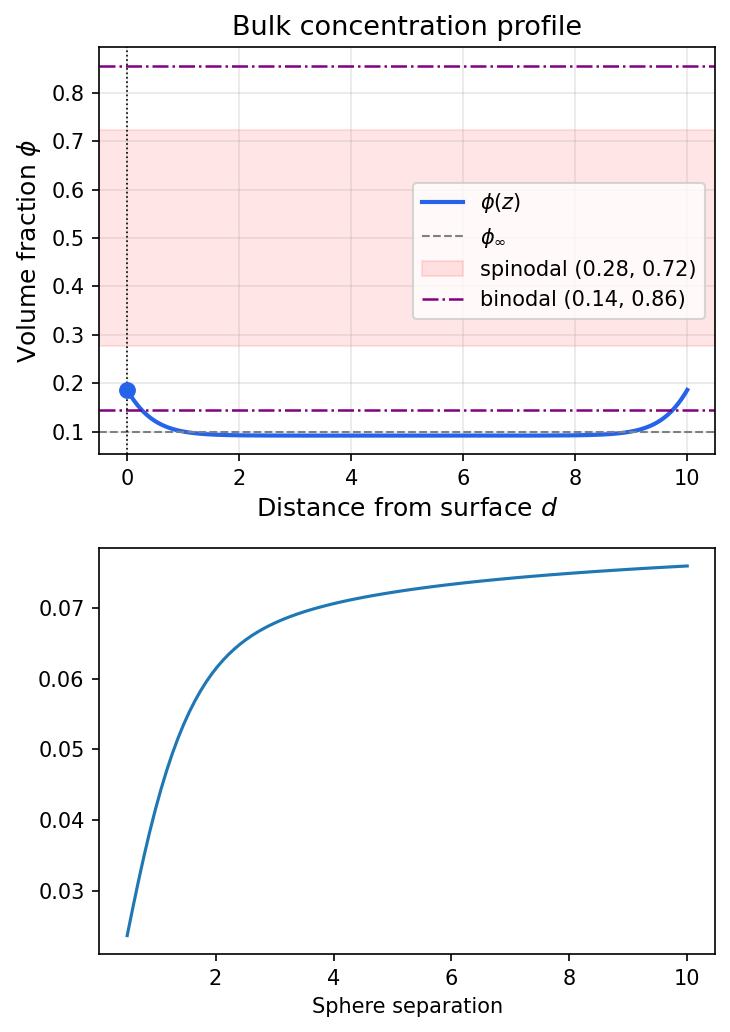
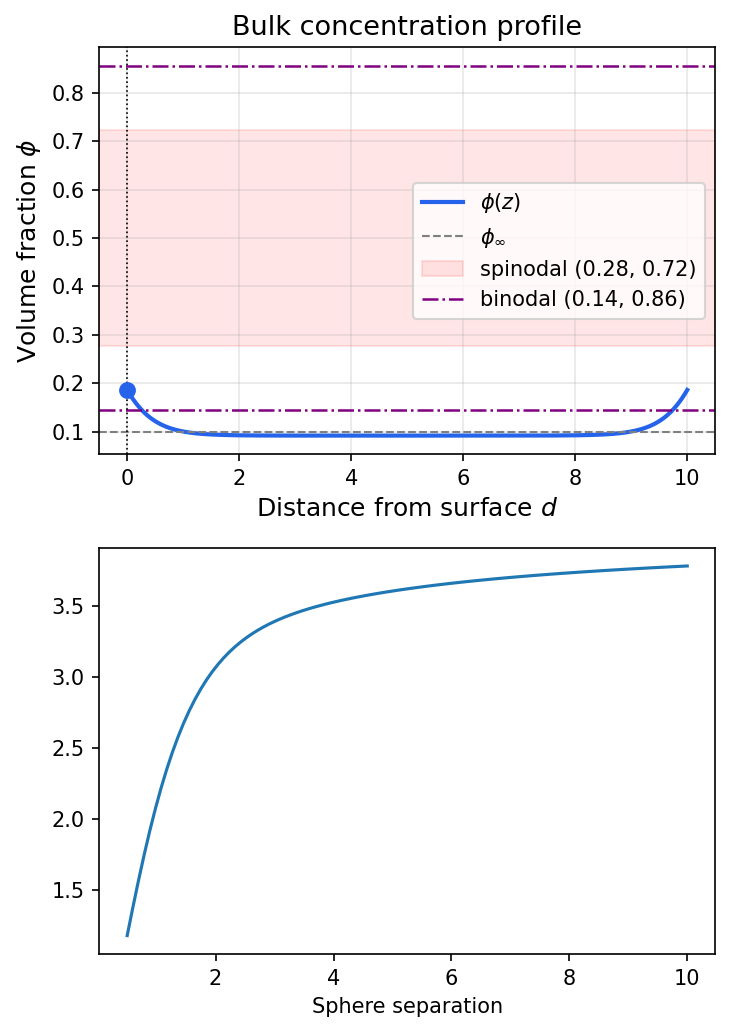
nonlinear potential works

diff --git a/viz_util/fisher_rate_from_profile.py b/viz_util/fisher_rate_from_profile.py
@@ -47,13 +47,37 @@ p = Parameters(
 s = 100   # inter-bead distance
 a = 1   # Kuhn length
 
-# ── Equilibrium distance distribution ─────────────────────────────────────
+# ── Distance distribution ─────────────────────────────────────────────────
 nsteps = 1000
 r = np.linspace(0, p.L, nsteps)     # distance from center
 d = np.linspace(0, p.L-p.R, nsteps) # distance from surface
 
 def compute_P_eq(p: Parameters, d: np.ndarray) -> np.ndarray:
     """Compute the equilibrium distribution of bead separation on a polymer"""
+
+    sol = solve_auto(p, verbose=False)
+    
+    # profile
+    phi = sol.sol(d)[0]
+    psi_lin = psi_linear(d, p)[0]
+
+    # potential
+    U_lin = 4 * np.pi * p.R**2 * p.omega_b * psi_lin
+
+    # equilibrium distribution
+    P_eq_unnorm = (d+p.R)**2 * np.exp(-3*(d+p.R)**2/(2*s*a**2) - U_lin)
+    P_eq = P_eq_unnorm / np.sum(P_eq_unnorm)
+
+    # concentration at the probe as a function of distance
+    phi_boundary = phi[-1]
+    Phi_d = phi_boundary + psi_lin[0] + psi_lin 
+
+    return P_eq, Phi_d, U_lin
+
+
+def compute_P_eq_full(p: Parameters, d: np.ndarray) -> np.ndarray:
+    """Compute the equilibrium distribution of bead separation on a polymer
+    using the nonlinear profile from the BVP solver"""
 
     sol = solve_auto(p, verbose=False)
     

diff --git a/viz_util/bvp_solver.py b/viz_util/bvp_solver.py
@@ -677,6 +677,37 @@ def solve_auto(p: Parameters, verbose: bool = True) -> Optional[object]:
 # TEST CASES
 # ============================================================
 
+def test_free_energy():
+
+    p = Parameters(
+        nb=1.0,
+        chi_b=2.5,     
+        omega_b=-0.4,   
+        kappa=1,
+        phi_inf=0.1,   
+        L=20.0,
+        eps=1e-6,
+        R=2.0,
+        conserve_volume=True,
+        parallel_plates = False
+    )
+
+    nsteps = 1000
+    r = np.linspace(0, p.L, nsteps)
+
+    sol = solve_auto(p, verbose=False)
+    
+    # profile
+    phi, dphi, iphi = sol.sol(r)
+    psi = phi - phi[-1]
+    psi_lin, dpsi_lin, _ = psi_linear(r, p)
+
+    # potential
+    U_lin = 4 * np.pi * p.R**2 * p.omega_b * psi_lin
+    F_full = F(psi, dphi, r, p)
+
+    return np.all(np.abs(U_lin - F_full) < 1e-5)
+
 def test_uniform_solution():
     """
     TEST 1: omega_b = 0.
@@ -1106,6 +1137,7 @@ def run_all_tests():
         ("Spherical geometry",                         test_spherical_geometry),
         ("Conserved mode, ideal limit",                test_conserve_volume_ideal),
         ("Conserved mode, mass conservation",          test_conserve_volume_mass),
+        ("Total free energy",                          test_free_energy),
     ]
 
     results = [(name, fn()) for name, fn in tests]

diff --git a/viz_util/bvp_parallel_plates.py b/viz_util/bvp_parallel_plates.py
@@ -58,13 +58,11 @@ def W(phi: np.ndarray, dphi: np.ndarray, d: np.ndarray, p: Parameters):
     return (np.sum(dr * (fb(psi, p) - p.kappa * psi * d2psi))
             + p.omega_b * (phi[0] + psi_end))
 
-nsteps = 500
+nsteps = 1000
 dr = p.L / nsteps
 n_distances = 100
 distances = np.linspace(0.05*p.L, p.L, n_distances)
-# W_d_joint = np.zeros(n_distances)
-# W_d_single = np.zeros(n_distances)
-F_full = np.zeros(n_distances)
+U_full = np.zeros(n_distances)
 
 for i, dist in enumerate(distances):
     # set distance between plates
@@ -84,7 +82,7 @@ for i, dist in enumerate(distances):
     W_d_single = W(phi_single, dphi_single, d, p)
 
     R = 5.0
-    F_full[i] = (W_d_joint - 2*W_d_single) * dr * np.pi * R
+    U_full[i] = (W_d_joint - 2*W_d_single) * np.pi * R
 
 
 # ── Plot ──────────────────────────────────────────────────────────────────────
@@ -116,7 +114,7 @@ ax.grid(True, alpha=0.3)
 
 ax2 = axes[1]
 
-ax2.plot(distances, F_full)
+ax2.plot(distances, U_full)
 ax2.set_xlabel("Sphere separation")
 
 
